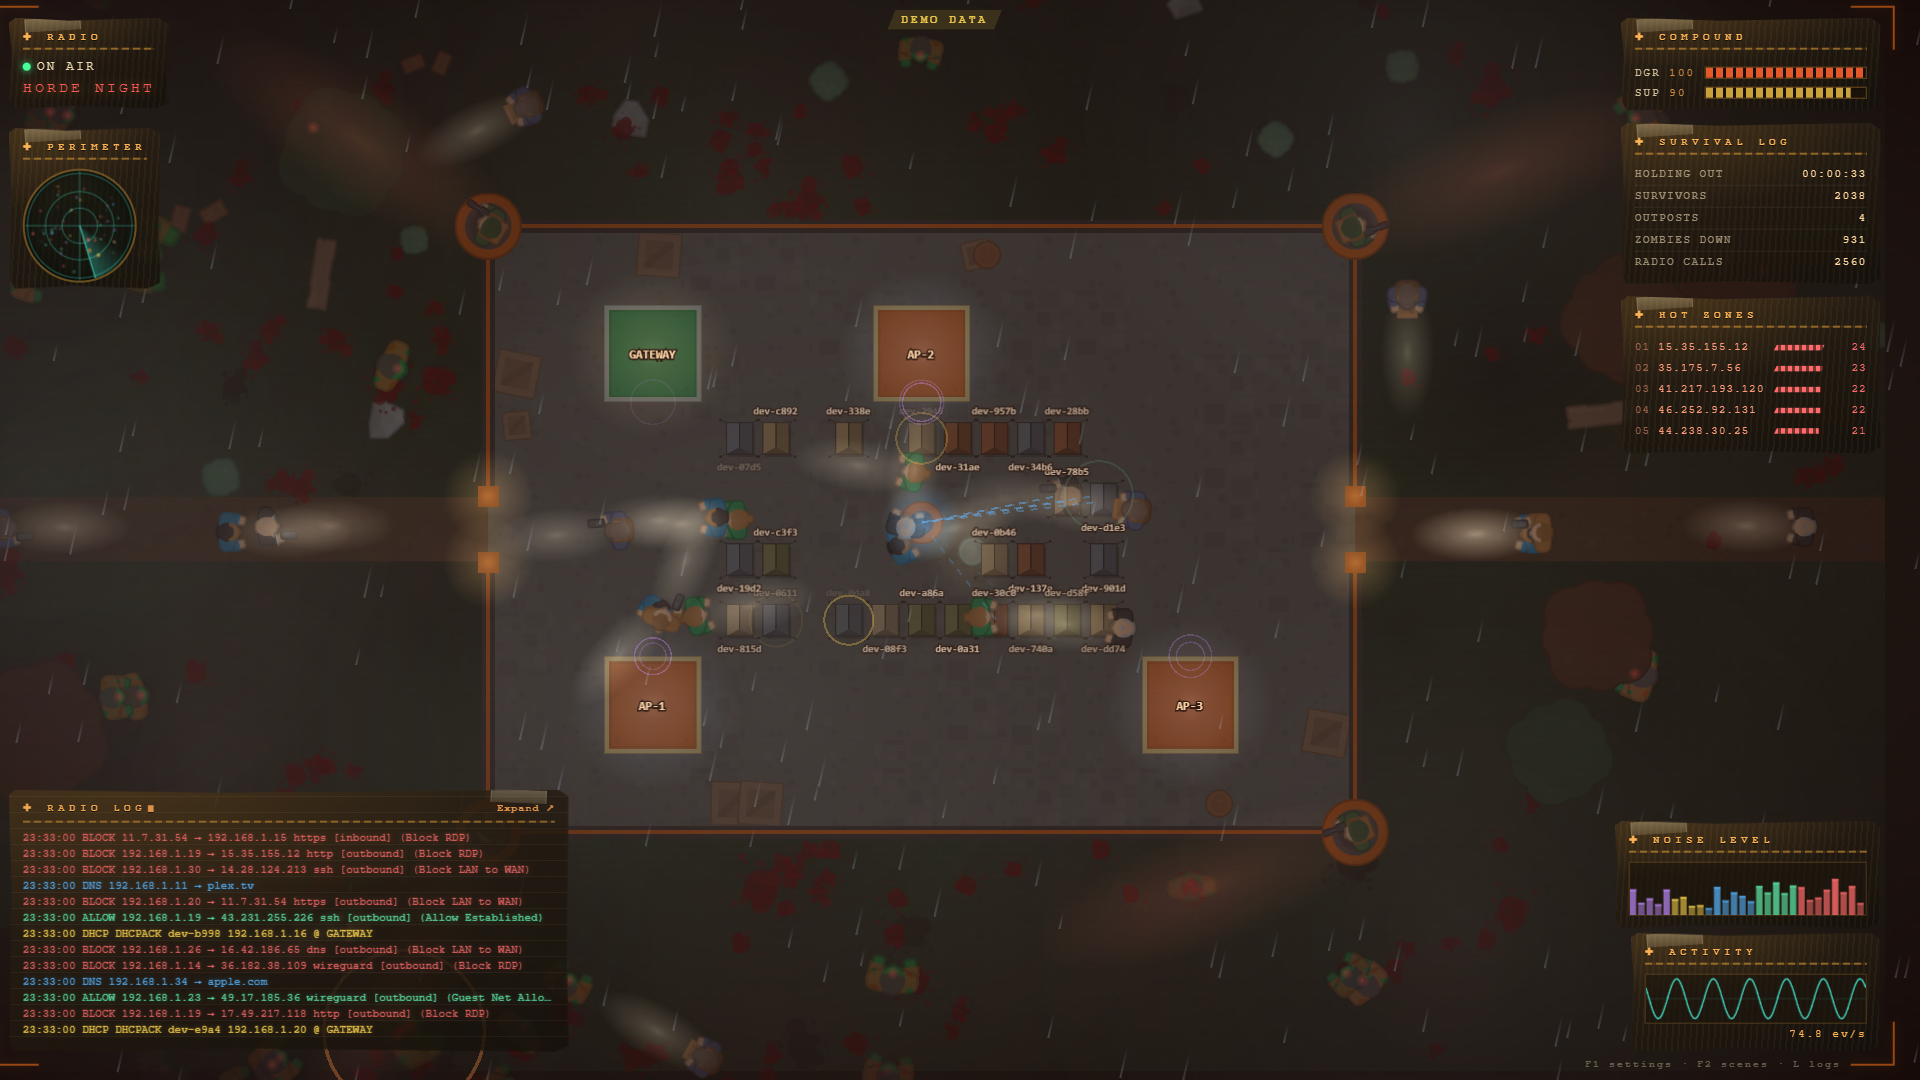
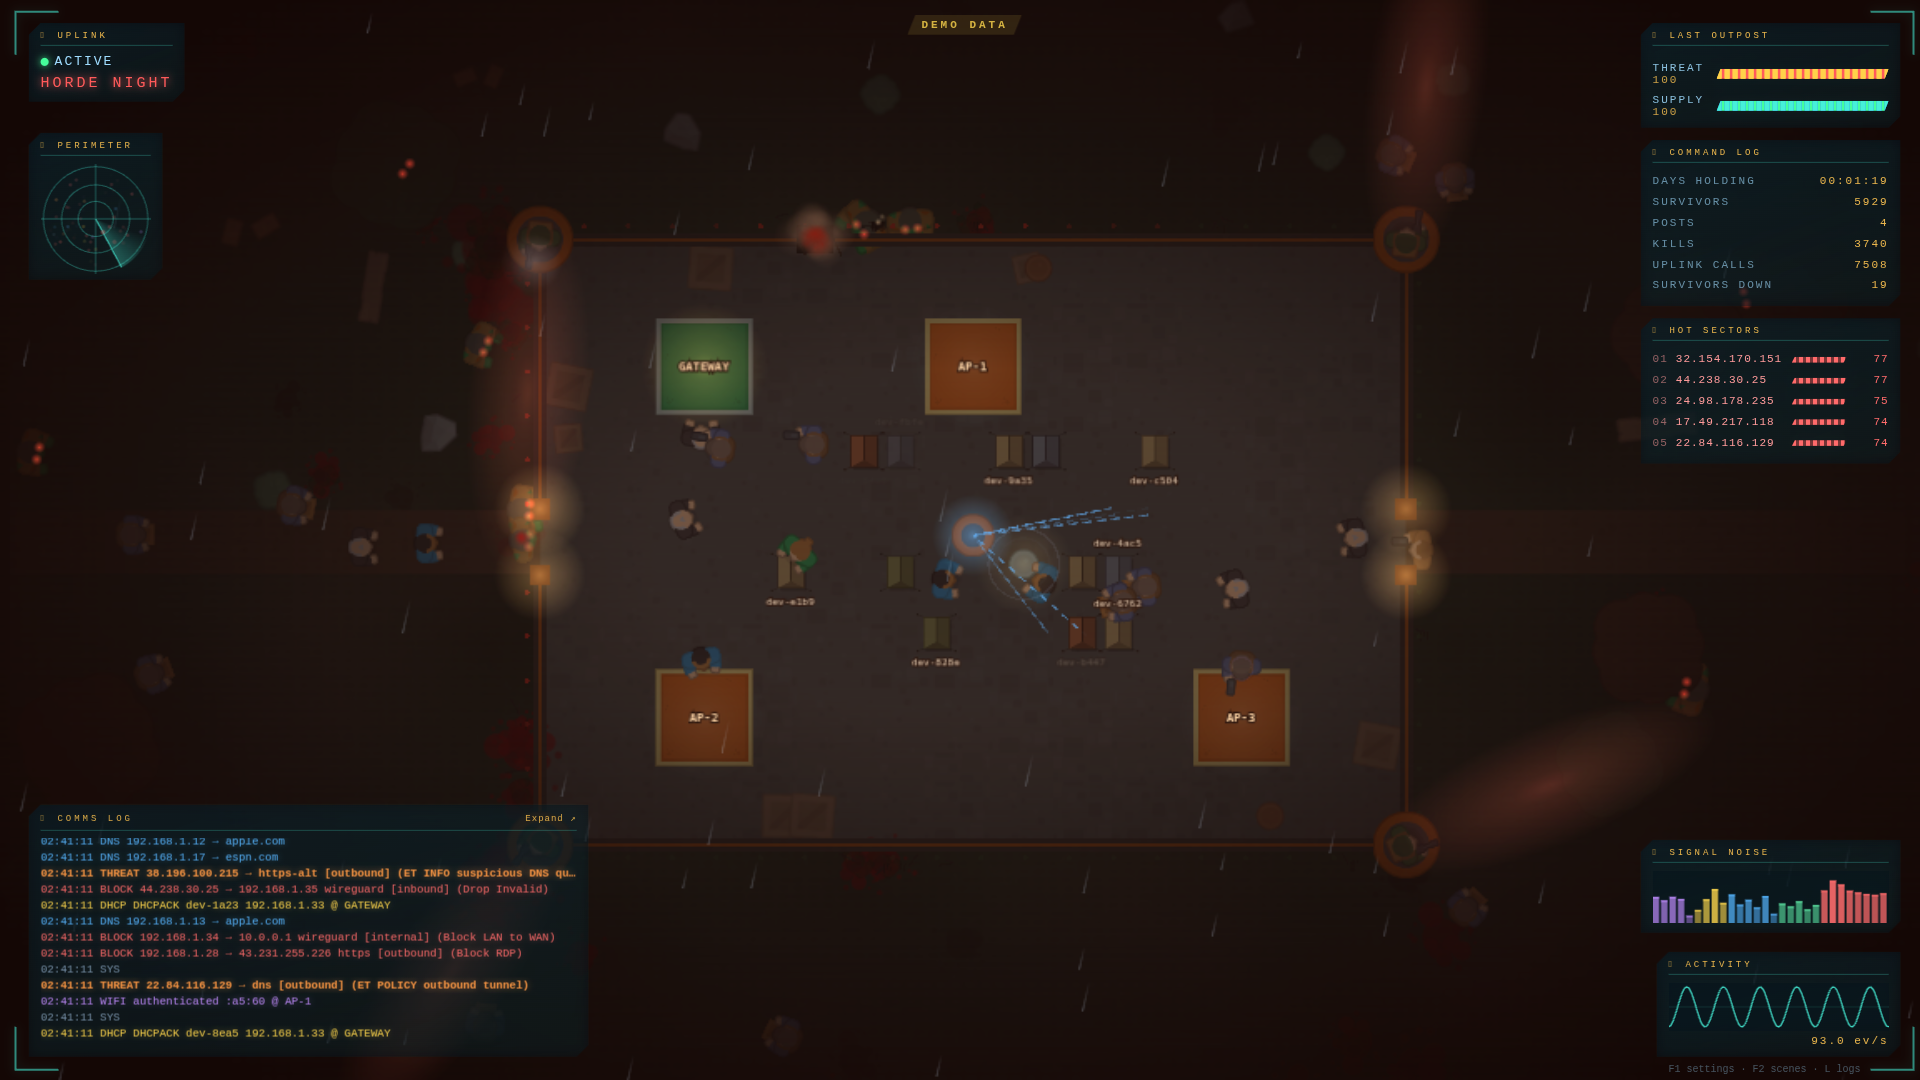
docs: fresh Last Outpost screenshots and current HUD labels
new day and horde-night shots and a horde-night gif, all captured from
the current build: aim-gated guards, tracer fan, the SURVIVORS DOWN
tally, radio chatter in the COMMS LOG, eyes in the dark. README HUD
labels and scene settings list brought in line with what is actually
on screen now

diff --git a/README.md b/README.md
@@ -430,7 +430,7 @@ panel's **Apply & reload**.
 
 | Tab | What's in it |
 |-----|--------------|
-| **Scene** | the scene's own toggles. Orbital Command: starfield, nebula, dust, ambient ships, DHCP planets, event stars, asteroids, attack rockets, crystals, IP constellations, ring objects, AP cores, screen shake, move with the music. Last Outpost: zombies, hordes, supply runs, couriers, DNS radio, DHCP arrivals, AP buildings, day/night, rain, lightning, blood, screen shake, move with the music. Midnight Run: traffic, roadblocks, police chase, rivals, DNS billboards, Wi-Fi gates, rain, camera nudge, move with the music. Packet Rush: gems, baddies, query blocks, rivals, checkpoints, hunter drone, rain and embers, turbo, boss fights, hero. Panopticon: signal arcs, tracking, satellites, uplinks, ripples, clouds and storms, grid, move with the music, eye of god, and how often the eye is tasked. Mainframe: packets, firewalls, worms and ICE, lookup towers, pick-and-place, antennas, floating addresses, move with the music, flight speed, dive into a chip, and how often it dives. Aquarium: schools, pufferfish, shark, bubbles, residents, treasure chest, light dimming on system log bursts, names and addresses, how many residents the reef holds, current, camera drift. The Gibson: face pulses, scrolling listings, tower rewrites, access banners, target lock, move with the music, scroll speed. Mycelium: growing hyphae, DNS blooms, DHCP sprouts, Wi-Fi spores, block scorch, threat blight, device labels, keeping the garden across reloads, hypha half-life, bioluminescence, and spore drift. Undergrowth: light pulses, DNS blooms, DHCP sprouts, Wi-Fi spores, block scorch, threat blight, labels, following events, keeping the garden across reloads, the aurora sky, flight speed, bioluminescence, spore drift, and hypha half-life. FRAGNET: each event's effect, the weapon, gore, patrol speed and traces per level. Substrate: allow cracks, block scars, threat fractures, DNS blooms, DHCP seeds, Wi-Fi drift, host seeding, the pigment wash, crack hairlines, naming the busiest district, a new paper each picture, plus seconds per picture, pigment strength and wander. Slipstream: the circuit (or a home track picked by hostname), whether the camera follows the busiest host or the leader, draft surges, sprint and sponsor board, pit takeovers, oil spins, red shells, boost pads, yellow cautions, speed chevrons, background wobble, corner minimap and race pace |
+| **Scene** | the scene's own toggles. Orbital Command: starfield, nebula, dust, ambient ships, DHCP planets, event stars, asteroids, attack rockets, crystals, IP constellations, ring objects, AP cores, screen shake, move with the music. Last Outpost: per-event-type visuals, buildings, day/night, rain, lightning, blood, screen shake, move with the music, plus budgets for zombies, blood decals, tents and fog + flashlights. Midnight Run: traffic, roadblocks, police chase, rivals, DNS billboards, Wi-Fi gates, rain, camera nudge, move with the music. Packet Rush: gems, baddies, query blocks, rivals, checkpoints, hunter drone, rain and embers, turbo, boss fights, hero. Panopticon: signal arcs, tracking, satellites, uplinks, ripples, clouds and storms, grid, move with the music, eye of god, and how often the eye is tasked. Mainframe: packets, firewalls, worms and ICE, lookup towers, pick-and-place, antennas, floating addresses, move with the music, flight speed, dive into a chip, and how often it dives. Aquarium: schools, pufferfish, shark, bubbles, residents, treasure chest, light dimming on system log bursts, names and addresses, how many residents the reef holds, current, camera drift. The Gibson: face pulses, scrolling listings, tower rewrites, access banners, target lock, move with the music, scroll speed. Mycelium: growing hyphae, DNS blooms, DHCP sprouts, Wi-Fi spores, block scorch, threat blight, device labels, keeping the garden across reloads, hypha half-life, bioluminescence, and spore drift. Undergrowth: light pulses, DNS blooms, DHCP sprouts, Wi-Fi spores, block scorch, threat blight, labels, following events, keeping the garden across reloads, the aurora sky, flight speed, bioluminescence, spore drift, and hypha half-life. FRAGNET: each event's effect, the weapon, gore, patrol speed and traces per level. Substrate: allow cracks, block scars, threat fractures, DNS blooms, DHCP seeds, Wi-Fi drift, host seeding, the pigment wash, crack hairlines, naming the busiest district, a new paper each picture, plus seconds per picture, pigment strength and wander. Slipstream: the circuit (or a home track picked by hostname), whether the camera follows the busiest host or the leader, draft surges, sprint and sponsor board, pit takeovers, oil spins, red shells, boost pads, yellow cautions, speed chevrons, background wobble, corner minimap and race pace |
 | **HUD** | each HUD panel on or off (names follow the scene), plus scanlines |
 | **Audio** | see [Mixing](#mixing) |
 | **Colour** | hue shift and intensity for the HUD accent; Orbital Command also recolours its host mesh (spectrum, event law, mono, warm, cool). Event colours never change |
@@ -470,7 +470,8 @@ constellations, and blocked destinations rank on the **MOST WANTED** board.
 
 The same traffic as a walled compound seen from above: your network is inside
 the walls, the internet is everything outside. The HUD is relabelled to match
-(RADIO, COMPOUND, SURVIVAL LOG, HOT ZONES, RADIO LOG…).
+(UPLINK, LAST OUTPOST, COMMAND LOG, HOT SECTORS, COMMS LOG…), and the comms
+log picks up radio chatter from the compound itself as the night goes badly.
 
 | Event | On screen |
 |-------|-----------|
